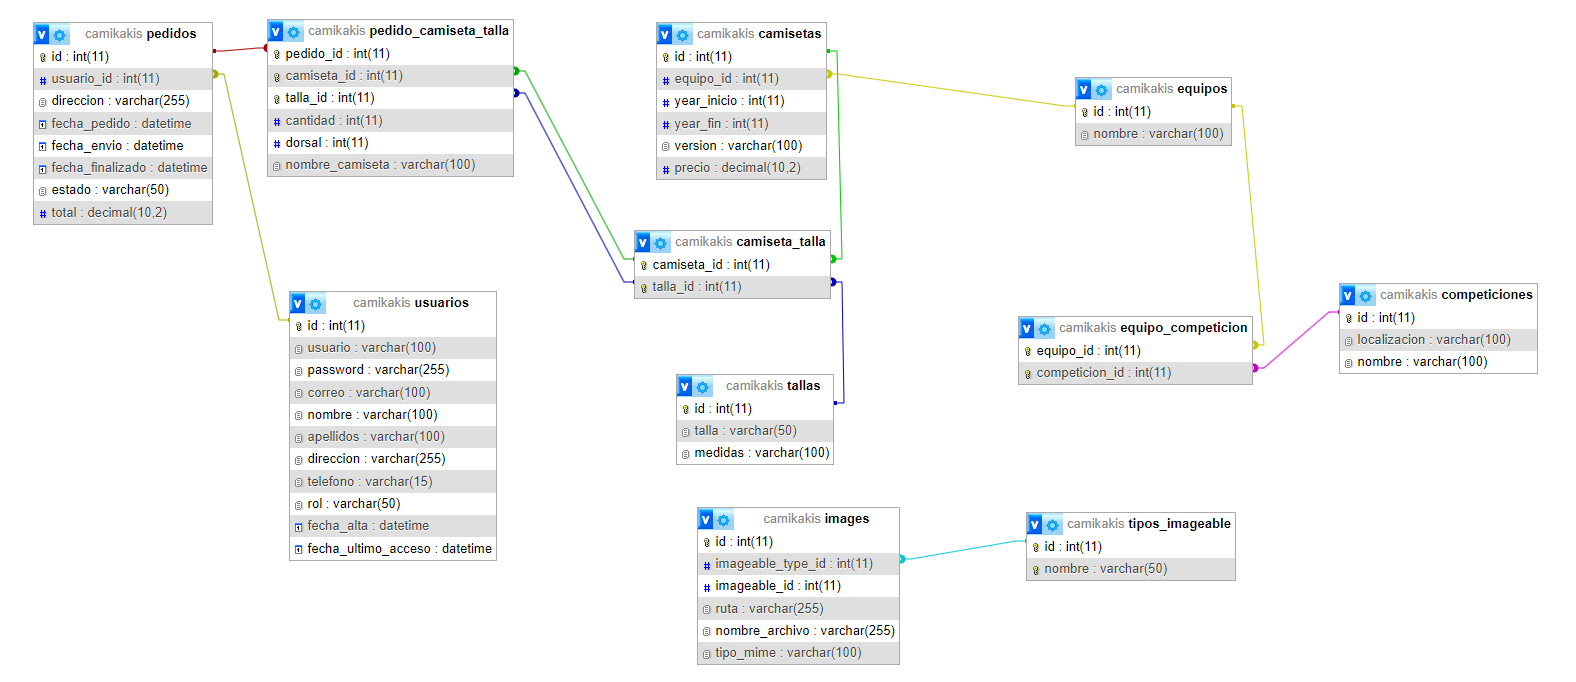
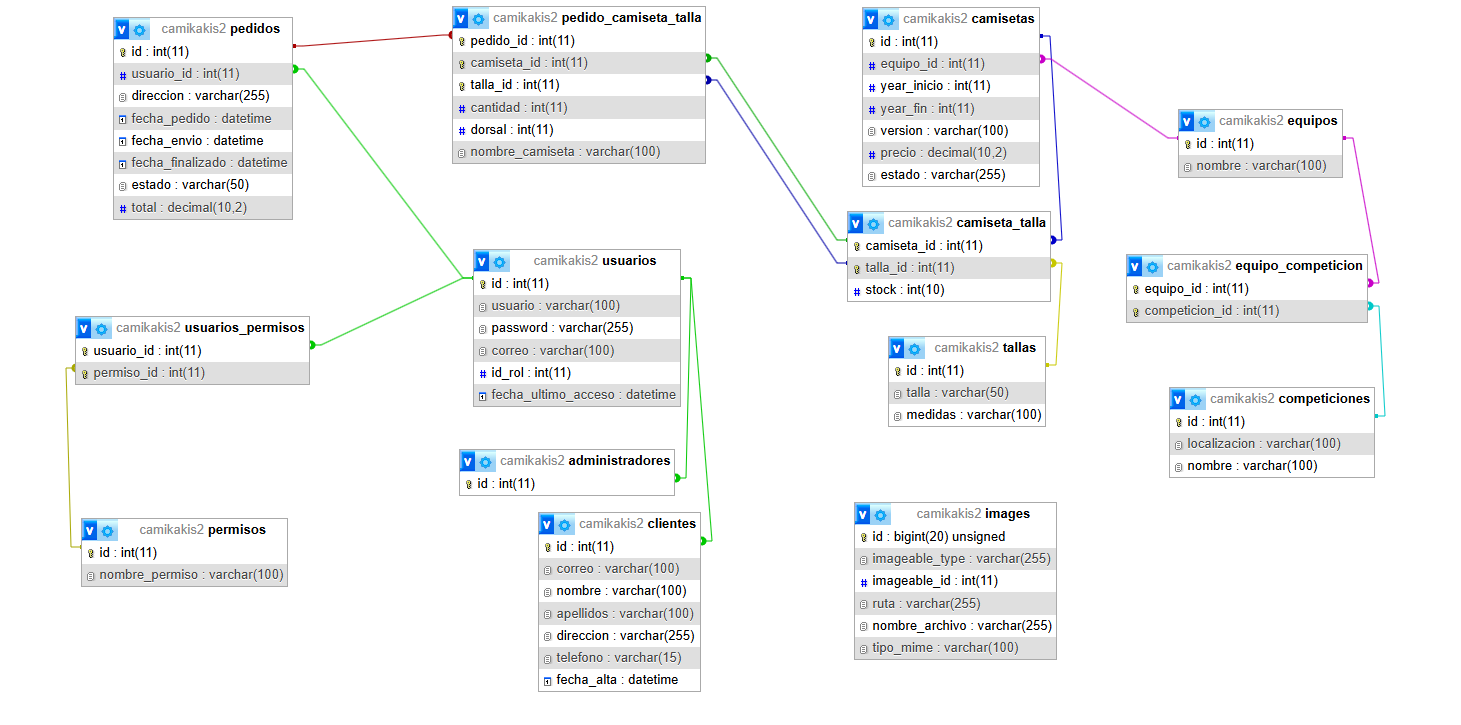
correcciones-diseño

diff --git a/doc/templates/3_Deseño.md b/doc/templates/3_Deseño.md
@@ -30,9 +30,12 @@ Diagrama de casos de uso
 Modelo Entidad-Relación
 >  - ![modelo entidad-relacion](../img/modeloER.png)
 
+> La relación imageable representa una relación polimórfica, esto se debe a que en la tabla imagenes se guardarán imagenes de varios tipos de entidades distintas (equipos, camisetas, competiciones, usuarios, etc.). Ej.: Tenemos almacenada en la tabla imagenes la imagen de id 1 y url /ruta/img.webp pero no sabemos si pertenece al usuario de id 1, a la camiseta de id 1... La relación polimórfica nos permite saber a que tipo de entidad pertenece.
+
 Modelo Relacional
 >  - ![modelo relacional](../img/modelo-relacional.png)
 
+Se ha eliminado la tabla tipos_imageable y se usa directamente images con un campo imageable_type que almacenará un string de este tipo para poder definir la relación polimórfica con Eloquent (el ORM de laravel): "App\Models\Camiseta"
 ## 4- Deseño de interface de usuarios
 
 Prototipo en figma:
